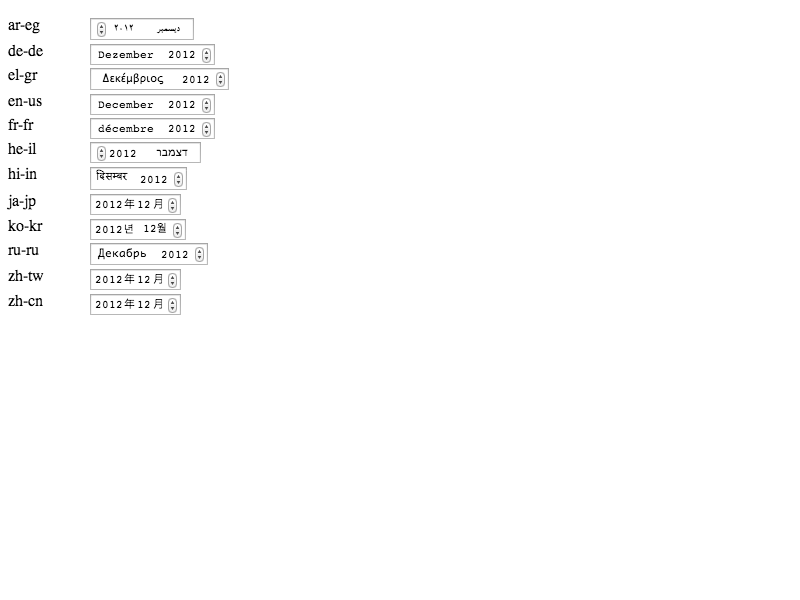
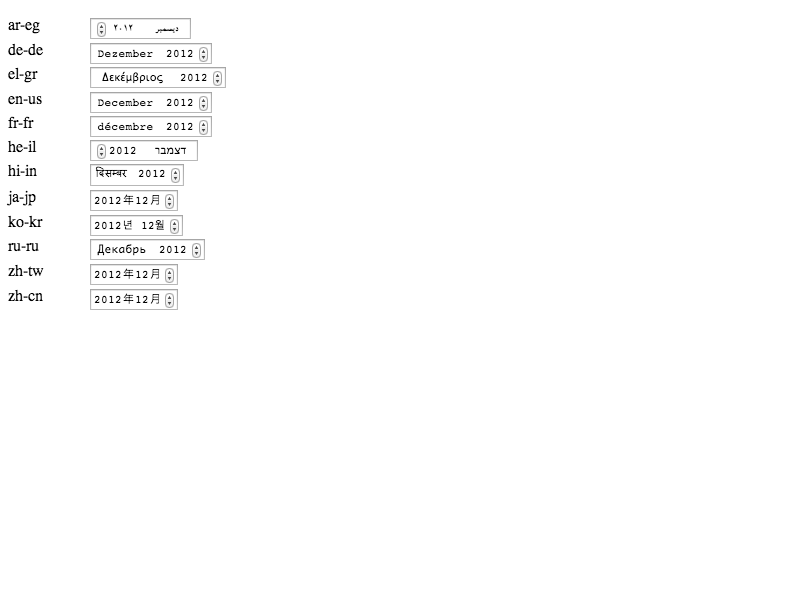
REGRESSION(r131421): Text baseline is not aligned in some locales https://bugs.webkit.org/show_bug.cgi?id=100088
Reviewed by Hajime Morita.

Source/WebCore:

Before this patch, the element with ::-webkit-datetime-edit had
-webkit-align-items:center. It was incorrect at all because it
ignores baselines of each of inner fields. We need to change it to
-webkit-align-items:baseline, or stop using -webkit-flex.

However -webkit-align-items:baseline doesn't work because a spin
button element in the element doesn't have the baseline. If we
specified -webkit-align-items:baseline, the spin button would
shift up.

So, we change the element structure for multiple fields input
elements. Before this patch, the structure was:

input
  |
   - ::-webkit-date-and-time-container (flex cotainer)
     |
     |- ::-webkit-datetime-edit (has flexibility in date-and-time-container, also this is a flex container)
     |  |- ::-webkit-datetime-edit-foo
     |  |      :
     |  |
     |  |- ::-webkit-date-time-edit-gap  (has flexibility in datetime-edit)
     |   - ::-webkit-inne-spin-button
      - ::-webkit-calendar-picker-indicator

After the patch, the structure will be:

input
  |
   - ::-webkit-date-and-time-container (flexible box)
     |
     |- ::-webkit-datetime-edit (has flexibility in date-and-time-container)
     |  |- ::-webkit-datetime-edit-foo
     |  |      :
     |  |
     |
     |- ::-webkit-inne-spin-button
      - ::-webkit-calendar-picker-indicator

Because the spin button owner is date-and-time-container, we don't
need to make the datetime-edit element a flex container.
[…]

diff --git a/Source/WebCore/css/html.css b/Source/WebCore/css/html.css
@@ -527,18 +527,17 @@ input[type="week"] {
 #endif
 
 input::-webkit-datetime-edit {
-    -webkit-align-items: center;
     -webkit-flex: 1;
     -webkit-user-modify: read-only !important;
-    display: -webkit-flex;
+    display: inline-block;
     white-space: pre;
 }
 
 input::-webkit-datetime-edit-ampm-field {
     -webkit-user-modify: read-only !important;
     border: none;
-    padding: 0.15em;
     display: inline-block;
+    margin: 1px;
     text-align: center;
 }
 
@@ -546,40 +545,40 @@ input::-webkit-datetime-edit-day-field {
     -webkit-user-modify: read-only !important;
     display: inline-block;
     border: none;
+    margin: 1px;
     text-align: center;
-    padding: 0.15em;
 }
 
 input::-webkit-datetime-edit-hour-field {
     -webkit-user-modify: read-only !important;
     display: inline-block;
     border: none;
+    margin: 1px;
     text-align: center;
-    padding: 0.15em;
 }
 
 input::-webkit-datetime-edit-millisecond-field {
     -webkit-user-modify: read-only !important;
     display: inline-block;
     border: none;
+    margin: 1px;
     text-align: center;
-    padding: 0.15em;
 }
 
 input::-webkit-datetime-edit-minute-field {
     -webkit-user-modify: read-only !important;
     display: inline-block;
     border: none;
+    margin: 1px;
     text-align: center;
-    padding: 0.15em;
 }
 
 input::-webkit-datetime-edit-month-field {
     -webkit-user-modify: read-only !important;
     display: inline-block;
     border: none;
+    margin: 1px;
     text-align: center;
-    padding: 0.15em;
 }
 
 /* This selector is used when step >= 3600 second but format contains minute field. */
@@ -591,24 +590,24 @@ input::-webkit-datetime-edit-second-field {
     -webkit-user-modify: read-only !important;
     display: inline-block;
     border: none;
+    margin: 1px;
     text-align: center;
-    padding: 0.15em;
 }
 
 input::-webkit-datetime-edit-week-field {
     -webkit-user-modify: read-only !important;
     display: inline-block;
     border: none;
+    margin: 1px;
     text-align: center;
-    padding: 0.15em;
 }
 
 input::-webkit-datetime-edit-year-field {
     -webkit-user-modify: read-only !important;
     display: inline-block;
     border: none;
+    margin: 1px;
     text-align: center;
-    padding: 0.15em;
 }
 
 input::-webkit-datetime-edit-text {
@@ -616,16 +615,10 @@ input::-webkit-datetime-edit-text {
     display: inline-block;
 }
 
-input::-webkit-datetime-edit-gap {
-    -webkit-flex: 1;
-    -webkit-user-modify: read-only !important;
-    display: inline-block;
-}
-
 input::-webkit-date-and-time-container {
     -webkit-align-items: center;
     -webkit-flex: 1;
-    display: -webkit-flex;
+    display: -webkit-inline-flex;
 }
 
 /* Remove focus ring from fields and use highlight color */

diff --git a/Source/WebCore/html/shadow/DateTimeEditElement.cpp b/Source/WebCore/html/shadow/DateTimeEditElement.cpp
@@ -249,7 +249,6 @@ DateTimeEditElement::EditControlOwner::~EditControlOwner()
 DateTimeEditElement::DateTimeEditElement(Document* document, EditControlOwner& editControlOwner)
     : HTMLDivElement(divTag, document)
     , m_editControlOwner(&editControlOwner)
-    , m_spinButton(0)
 {
     DEFINE_STATIC_LOCAL(AtomicString, dateTimeEditPseudoId, ("-webkit-datetime-edit"));
     setShadowPseudoId(dateTimeEditPseudoId);
@@ -259,9 +258,6 @@ DateTimeEditElement::~DateTimeEditElement()
 {
     for (size_t fieldIndex = 0; fieldIndex < m_fields.size(); ++fieldIndex)
         m_fields[fieldIndex]->removeEventHandler();
-
-    if (m_spinButton)
-        m_spinButton->removeSpinButtonOwner();
 }
 
 void DateTimeEditElement::addField(PassRefPtr<DateTimeFieldElement> field)
@@ -315,7 +311,7 @@ size_t DateTimeEditElement::fieldIndexOf(const DateTimeFieldElement& field) cons
     return invalidFieldIndex;
 }
 
-void DateTimeEditElement::focusAndSelectSpinButtonOwner()
+void DateTimeEditElement::focusIfNoFocus()
 {
     if (focusedFieldIndex() != invalidFieldIndex)
         return;
@@ -427,14 +423,6 @@ void DateTimeEditElement::layout(const LayoutParameters& layoutParameters, const
                 break;
         }
     }
-
-    DEFINE_STATIC_LOCAL(AtomicString, gapPseudoId, ("-webkit-datetime-edit-gap", AtomicString::ConstructFromLiteral));
-    RefPtr<HTMLDivElement> gapElement = HTMLDivElement::create(document());
-    gapElement->setShadowPseudoId(gapPseudoId);
-    appendChild(gapElement);
-    RefPtr<SpinButtonElement> spinButton = SpinButtonElement::create(document(), *this);
-    m_spinButton = spinButton.get();
-    appendChild(spinButton);
 }
 
 AtomicString DateTimeEditElement::localeIdentifier() const
@@ -464,12 +452,6 @@ void DateTimeEditElement::defaultEventHandler(Event* event)
             return;
     }
 
-    if (m_spinButton) {
-        m_spinButton->forwardEvent(event);
-        if (event->defaultHandled())
-            return;
-    }
-
     HTMLDivElement::defaultEventHandler(event);
 }
 
@@ -493,26 +475,18 @@ void DateTimeEditElement::setEmptyValue(const LayoutParameters& layoutParameters
         m_fields[fieldIndex]->setEmptyValue(dateForReadOnlyField, DateTimeFieldElement::DispatchNoEvent);
 }
 
-bool DateTimeEditElement::shouldSpinButtonRespondToMouseEvents()
+bool DateTimeEditElement::hasFocusedField()
 {
-    return !isDisabled() && !isReadOnly();
-}
-
-bool DateTimeEditElement::shouldSpinButtonRespondToWheelEvents()
-{
-    if (!shouldSpinButtonRespondToMouseEvents())
-        return false;
-
     return focusedFieldIndex() != invalidFieldIndex;
 }
 
-void DateTimeEditElement::spinButtonStepDown()
+void DateTimeEditElement::stepDown()
 {
     if (DateTimeFieldElement* const field = focusedField())
         field->stepDown();
 }
 
-void DateTimeEditElement::spinButtonStepUp()
+void DateTimeEditElement::stepUp()
 {
     if (DateTimeFieldElement* const field = focusedField())
         field->stepUp();
@@ -521,7 +495,6 @@ void DateTimeEditElement::spinButtonStepUp()
 void DateTimeEditElement::updateUIState()
 {
     if (isDisabled() || isReadOnly()) {
-        m_spinButton->releaseCapture();
         if (DateTimeFieldElement* field = focusedField())
             field->blur();
     }

diff --git a/Source/WebCore/html/BaseMultipleFieldsDateAndTimeInputType.cpp b/Source/WebCore/html/BaseMultipleFieldsDateAndTimeInputType.cpp
@@ -93,9 +93,40 @@ bool BaseMultipleFieldsDateAndTimeInputType::isEditControlOwnerReadOnly() const
     return element()->disabled();
 }
 
+void BaseMultipleFieldsDateAndTimeInputType::focusAndSelectSpinButtonOwner()
+{
+    if (m_dateTimeEditElement)
+        m_dateTimeEditElement->focusIfNoFocus();
+}
+
+bool BaseMultipleFieldsDateAndTimeInputType::shouldSpinButtonRespondToMouseEvents()
+{
+    return !element()->disabled() && !element()->readOnly();
+}
+
+bool BaseMultipleFieldsDateAndTimeInputType::shouldSpinButtonRespondToWheelEvents()
+{
+    if (!shouldSpinButtonRespondToMouseEvents())
+        return false;
+    return m_dateTimeEditElement && m_dateTimeEditElement->hasFocusedField();
+}
+
+void BaseMultipleFieldsDateAndTimeInputType::spinButtonStepDown()
+{
+    if (m_dateTimeEditElement)
+        m_dateTimeEditElement->stepDown();
+}
+
+void BaseMultipleFieldsDateAndTimeInputType::spinButtonStepUp()
+{
+    if (m_dateTimeEditElement)
+        m_dateTimeEditElement->stepUp();
+}
+
 BaseMultipleFieldsDateAndTimeInputType::BaseMultipleFieldsDateAndTimeInputType(HTMLInputElement* element)
     : BaseDateAndTimeInputType(element)
     , m_dateTimeEditElement(0)
+    , m_spinButtonElement(0)
     , m_pickerIndicatorElement(0)
     , m_pickerIndicatorIsVisible(false)
     , m_pickerIndicatorIsAlwaysVisible(false)
@@ -104,6 +135,8 @@ BaseMultipleFieldsDateAndTimeInputType::BaseMultipleFieldsDateAndTimeInputType(H
 
 BaseMultipleFieldsDateAndTimeInputType::~BaseMultipleFieldsDateAndTimeInputType()
 {
+    if (m_spinButtonElement)
+        m_spinButtonElement->removeSpinButtonOwner();
     if (m_dateTimeEditElement)
         m_dateTimeEditElement->removeEditControlOwner();
 }
@@ -134,6 +167,10 @@ void BaseMultipleFieldsDateAndTimeInputType::createShadowSubtree()
     m_dateTimeEditElement = dateTimeEditElement.get();
     container->appendChild(m_dateTimeEditElement);
     updateInnerTextValue();
+
+    RefPtr<SpinButtonElement> spinButton = SpinButtonElement::create(document, *this);
+    m_spinButtonElement = spinButton.get();
+    container->appendChild(spinButton);
 
 #if ENABLE(DATALIST_ELEMENT) || ENABLE(CALENDAR_PICKER)
     bool shouldAddPickerIndicator = false;
@@ -175,12 +212,19 @@ void BaseMultipleFieldsDateAndTimeInputType::focus(bool)
 
 void BaseMultipleFieldsDateAndTimeInputType::forwardEvent(Event* event)
 {
+    if (m_spinButtonElement) {
+        m_spinButtonElement->forwardEvent(event);
+        if (event->defaultHandled())
+            return;
+    }
+        
     if (m_dateTimeEditElement)
         m_dateTimeEditElement->defaultEventHandler(event);
 }
 
 void BaseMultipleFieldsDateAndTimeInputType::disabledAttributeChanged()
 {
+    m_spinButtonElement->releaseCapture();
     if (m_dateTimeEditElement)
         m_dateTimeEditElement->disabledStateChanged();
 }
@@ -223,6 +267,7 @@ void BaseMultipleFieldsDateAndTimeInputType::minOrMaxAttributeChanged()
 
 void BaseMultipleFieldsDateAndTimeInputType::readonlyAttributeChanged()
 {
+    m_spinButtonElement->releaseCapture();
     if (m_dateTimeEditElement)
         m_dateTimeEditElement->readOnlyStateChanged();
 }

diff --git a/Source/WebCore/html/shadow/DateTimeEditElement.h b/Source/WebCore/html/shadow/DateTimeEditElement.h
@@ -28,7 +28,6 @@
 
 #if ENABLE(INPUT_MULTIPLE_FIELDS_UI)
 #include "DateTimeFieldElement.h"
-#include "SpinButtonElement.h"
 #include "StepRange.h"
 
 namespace WebCore {
@@ -43,7 +42,7 @@ class StepRange;
 // representing date and time, such as
 //  - Year, Month, Day Of Month
 //  - Hour, Minute, Second, Millisecond, AM/PM
-class DateTimeEditElement : public HTMLDivElement, public DateTimeFieldElement::FieldOwner, private SpinButtonElement::SpinButtonOwner {
+class DateTimeEditElement : public HTMLDivElement, public DateTimeFieldElement::FieldOwner {
     WTF_MAKE_NONCOPYABLE(DateTimeEditElement);
 
 public:
@@ -90,13 +89,17 @@ public:
     void blurByOwner();
     virtual void defaultEventHandler(Event*) OVERRIDE;
     void disabledStateChanged();
+    void focusIfNoFocus();
     void focusByOwner();
+    bool hasFocusedField();
     void readOnlyStateChanged();
     void removeEditControlOwner() { m_editControlOwner = 0; }
     void resetFields();
     void setEmptyValue(const LayoutParameters&, const DateComponents& dateForReadOnlyField);
     void setValueAsDate(const LayoutParameters&, const DateComponents&);
     void setValueAsDateTimeFieldsState(const DateTimeFieldsState&, const DateComponents& dateForReadOnlyField);
+    void stepDown();
+    void stepUp();
     String value() const;
     DateTimeFieldsState valueAsDateTimeFieldsState() const;
 
@@ -134,16 +137,8 @@ private:
     virtual bool isFieldOwnerDisabledOrReadOnly() const OVERRIDE FINAL;
     virtual AtomicString localeIdentifier() const OVERRIDE FINAL;
 
-    // SpinButtonElement::SpinButtonOwner functions.
-    virtual void focusAndSelectSpinButtonOwner() OVERRIDE FINAL;
-    virtual bool shouldSpinButtonRespondToMouseEvents() OVERRIDE FINAL;
-    virtual bool shouldSpinButtonRespondToWheelEvents() OVERRIDE FINAL;
-    virtual void spinButtonStepDown() OVERRIDE FINAL;
-    virtual void spinButtonStepUp() OVERRIDE FINAL;
-
     Vector<DateTimeFieldElement*, maximumNumberOfFields> m_fields;
     EditControlOwner* m_editControlOwner;
-    SpinButtonElement* m_spinButton;
 };
 
 } // namespace WebCore

diff --git a/Source/WebCore/html/BaseMultipleFieldsDateAndTimeInputType.h b/Source/WebCore/html/BaseMultipleFieldsDateAndTimeInputType.h
@@ -35,6 +35,7 @@
 
 #if ENABLE(INPUT_MULTIPLE_FIELDS_UI)
 #include "DateTimeEditElement.h"
+#include "SpinButtonElement.h"
 
 namespace WebCore {
 
@@ -57,6 +58,13 @@ private:
     virtual bool isEditControlOwnerDisabled() const OVERRIDE FINAL;
     virtual bool isEditControlOwnerReadOnly() const OVERRIDE FINAL;
     virtual AtomicString localeIdentifier() const OVERRIDE FINAL;
+
+    // SpinButtonElement::SpinButtonOwner functions.
+    virtual void focusAndSelectSpinButtonOwner() OVERRIDE;
+    virtual bool shouldSpinButtonRespondToMouseEvents() OVERRIDE;
+    virtual bool shouldSpinButtonRespondToWheelEvents() OVERRIDE;
+    virtual void spinButtonStepDown() OVERRIDE;
+    virtual void spinButtonStepUp() OVERRIDE;
 
     // InputType functions
     virtual void blur() OVERRIDE FINAL;
@@ -86,6 +94,7 @@ private:
     void updatePickerIndicatorVisibility();
 
     DateTimeEditElement* m_dateTimeEditElement;
+    SpinButtonElement* m_spinButtonElement;
 #if ENABLE(DATALIST_ELEMENT) || ENABLE(CALENDAR_PICKER)
     PickerIndicatorElement* m_pickerIndicatorElement;
     bool m_pickerIndicatorIsVisible;

diff --git a/Source/WebCore/html/TextFieldInputType.h b/Source/WebCore/html/TextFieldInputType.h
@@ -41,7 +41,7 @@ class FormDataList;
 
 // The class represents types of which UI contain text fields.
 // It supports not only the types for BaseTextInputType but also type=number.
-class TextFieldInputType : public InputType, private SpinButtonElement::SpinButtonOwner {
+class TextFieldInputType : public InputType, protected SpinButtonElement::SpinButtonOwner {
 protected:
     TextFieldInputType(HTMLInputElement*);
     virtual ~TextFieldInputType();
